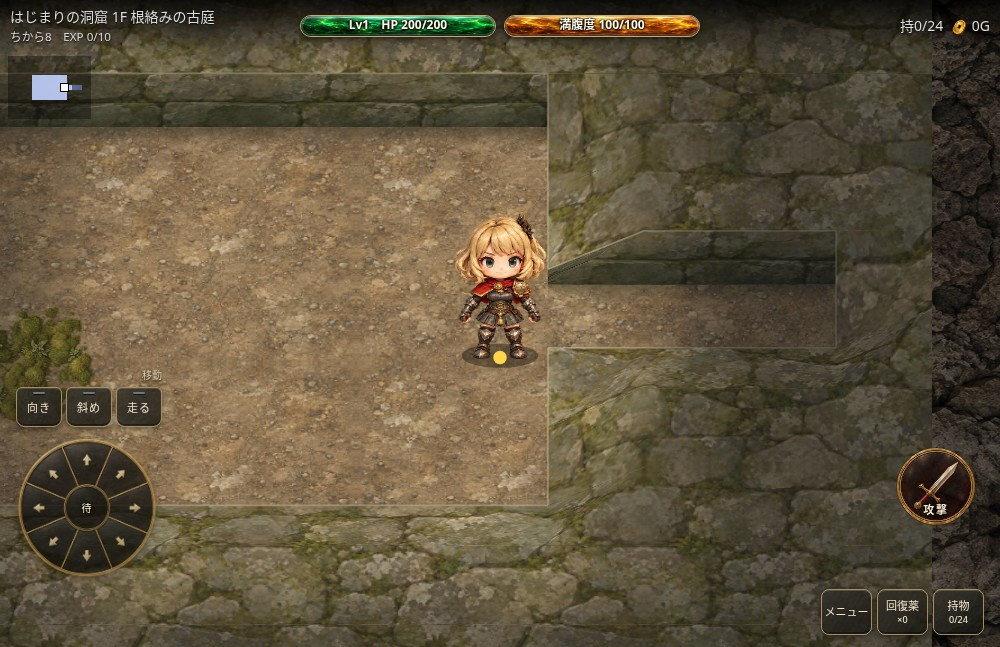
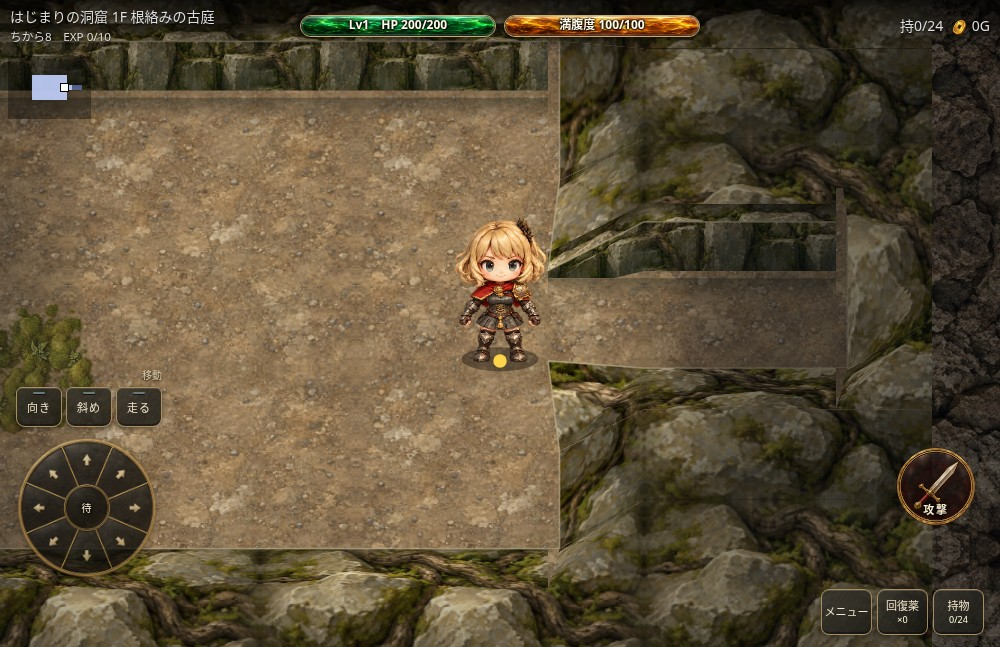
Prototype near-square ground and generated raised garden stonework

diff --git a/assets/overgrown-garden.js b/assets/overgrown-garden.js
@@ -4,10 +4,10 @@
  const theme=DungeonGenerator.themes.find(t=>t.id==='overgrown-garden');
  // Published view remains the default; study modes are selected in review only.
  const view={mode:'low',pitch:.82};
- const profiles={low:{back:.24,front:.24},tall:{back:.48,front:.48},cutaway:{back:.56,front:.16}};
+ const profiles={low:{back:.24,front:.24},tall:{back:.48,front:.48},cutaway:{back:.56,front:.16},ridge:{back:.86,front:.40}};
  function configureView(patch){
   if(patch.mode!==undefined){if(!profiles[patch.mode])throw Error('unknown wall view');view.mode=patch.mode;}
-  if(patch.pitch!==undefined){if(![.72,.82,.9].includes(patch.pitch))throw Error('unknown ground projection');view.pitch=patch.pitch;}
+  if(patch.pitch!==undefined){if(![.72,.82,.9,.94].includes(patch.pitch))throw Error('unknown ground projection');view.pitch=patch.pitch;}
  }
  function vertexHeight(map,x,y){
   const p=profiles[view.mode],floor=(xx,yy)=>map[yy]?.[xx]!==undefined&&map[yy][xx]!==0;
@@ -24,10 +24,18 @@
   }))).then(()=>{art.ready=true;}).catch(error=>{art.error=error.message;throw error;});
   return art.promise;
  }
+ function loadRidge(){
+  if(art.ridgePromise)return art.ridgePromise;
+  art.ridgePromise=new Promise((resolve,reject)=>{
+   const image=new Image();image.onload=()=>{art.images.ridge=image;resolve();};image.onerror=()=>reject(Error('古庭の石積み画像を取得できません'));
+   image.src='fushigi-overgrown-garden-v1/source-art/garden-ridge.png';
+  });
+  return art.ridgePromise;
+ }
  // Blend only opposing texture edges, retaining the generated painted interior.
  function texture(key){
   if(art.textures[key])return art.textures[key];
-  const tile={soil:[0,0],top:[1,0],face:[0,1],mossSoil:[1,1]}[key],image=art.images.materials,half=image.width/2;
+  const tile={soil:[0,0],top:[1,0],face:[0,1],mossSoil:[1,1],ridgeTop:[1,0],ridgeFace:[0,0],ridgeInterior:[0,1],ridgeCap:[1,1]}[key],image=key.startsWith('ridge')?art.images.ridge:art.images.materials,half=image.width/2;
   const c=document.createElement('canvas');c.width=c.height=256;const g=c.getContext('2d');
   g.drawImage(image,tile[0]*half,tile[1]*half,half,half,0,0,256,256);
   const src=g.getImageData(0,0,256,256),out=g.createImageData(256,256),data=src.data;
@@ -123,23 +131,46 @@
   g.restore();
  }
  function wall(g,px,py,size,h,{map,x,y}){
+  const ridge=view.mode==='ridge'&&art.images.ridge;
   const f=(xx,yy)=>map[yy]?.[xx]!==undefined&&map[yy][xx]!==0;
+  const groundCorner=(vx,vy)=>{
+   let ix=0,iy=0;
+   if(ridge){
+    // Narrow recesses belong to the wall cell. Shared corner positions keep
+    // their outlines joined; the front rim no longer sits under the hero's feet.
+    if(f(vx-1,vy-1)||f(vx,vy-1))iy+=.25;
+    if(f(vx-1,vy)||f(vx,vy))iy-=.08;
+    if(f(vx-1,vy-1)||f(vx-1,vy))ix+=.12;
+    if(f(vx,vy-1)||f(vx,vy))ix-=.12;
+   }
+   return [px+(vx-x+ix)*size,py+(vy-y+iy)*h];
+  };
+  const ground=[groundCorner(x,y),groundCorner(x+1,y),groundCorner(x+1,y+1),groundCorner(x,y+1)];
   const rises=[vertexHeight(map,x,y),vertexHeight(map,x+1,y),vertexHeight(map,x+1,y+1),vertexHeight(map,x,y+1)].map(v=>v*size*verticalProjection());
-  const top=[[px,py-rises[0]],[px+size,py-rises[1]],[px+size,py+h-rises[2]],[px,py+h-rises[3]]];
+  const top=ground.map(([xx,yy],i)=>[xx,yy-rises[i]]);
   g.save();
   g.imageSmoothingEnabled=true;
   // Fill the short vertical band under the cap too: it must stay opaque when
   // adjoining a room corner or a freshly blasted opening.
-  surface(g,'top',x,y,px,py,size,h,4);
+  const nearFloor=ridge&&[-1,0,1].some(dy=>[-1,0,1].some(dx=>f(x+dx,y+dy)));
+  surface(g,ridge?(nearFloor?'soil':'ridgeInterior'):'top',x,y,px,py,size,h,ridge&&nearFloor?3:4);
   if(f(x,y+1)){
-   const face=texture('face'),part=face.width/4;
-   const side=[top[3],top[2],[px+size,py+h],[px,py+h]];
-   quad(g,face,(x%4)*part,32,part,64,side);
+   const face=texture(ridge?'ridgeFace':'face'),span=ridge?2:4,part=face.width/span;
+   const side=[top[3],top[2],ground[2],ground[3]];
+   // Preserve material proportions instead of squeezing an entire tall block
+   // into a thin horizontal strip.
+   quad(g,face,(x%span)*part,ridge?64:32,part,64,side);
    const shade=g.createLinearGradient(0,py+h-Math.max(rises[2],rises[3]),0,py+h);shade.addColorStop(0,'#18221835');shade.addColorStop(1,'#10180e95');
    g.fillStyle=shade;g.beginPath();g.moveTo(...side[0]);for(const pt of side.slice(1))g.lineTo(...pt);g.closePath();g.fill();
   }
-  const tile=texture('top'),part=tile.width/4;
+  const tile=texture(ridge?'ridgeTop':'top'),part=tile.width/4;
   quad(g,tile,(x%4)*part,(y%4)*part,part,part,top);
+  if(ridge&&f(x,y+1)){
+   // A shallow crown distinguishes the standing edge from the wall's rocky
+   // interior. Adjacent cells share the same world-space band and vertices.
+   const cap=texture('ridgeCap'),depth=h*.2;
+   quad(g,cap,(x%2)*128,0,128,24,[[top[3][0],top[3][1]-depth],[top[2][0],top[2][1]-depth],top[2],top[3]]);
+  }
   // Restrict edge accents to actual exposed boundaries, never tile seams.
   g.lineWidth=Math.max(1,size*.018);g.strokeStyle='#c4b99890';g.beginPath();
   if(f(x,y-1)){g.moveTo(...top[0]);g.lineTo(...top[1]);}
@@ -154,6 +185,7 @@
   options={...options,x:options.x??0,y:options.y??0};
   if(!CaveTerrain.ready)return false;
   if(!art.ready){if(!art.promise)load().then(()=>root.render?.()).catch(()=>{});return false;}
+  if(view.mode==='ridge'&&!art.images.ridge&&!art.ridgePromise){loadRidge().then(()=>root.render?.()).catch(()=>{});}
   const h=size*view.pitch;
   if(key==='wallF'||key==='wallT')return wall(g,px,py,size,h,options);
   let ok=true;
@@ -170,5 +202,5 @@
  };
  // Both the normal floor rotation and review catalog include the garden.
  DungeonGenerator.locations=DungeonGenerator.themes;
- root.OvergrownGarden={theme,plan,cell,art,load,texture,view,profiles,configureView,vertexHeight};
+ root.OvergrownGarden={theme,plan,cell,art,load,loadRidge,texture,view,profiles,configureView,vertexHeight};
 })(typeof window==='undefined'?globalThis:window);

diff --git a/fushigi-overgrown-garden-v1/index.html b/fushigi-overgrown-garden-v1/index.html
@@ -3,7 +3,7 @@
 <style>
 body{margin:0;background:#141b18;color:#e5dfcd;font:14px system-ui,sans-serif;display:flex;flex-direction:column;height:100dvh}header{padding:10px;display:flex;gap:8px;align-items:center;flex-wrap:wrap;flex-shrink:0}h1{font-size:17px;margin:0 10px 0 0}button,select{font:inherit;color:inherit;background:#29382e;border:1px solid #6d7d65;border-radius:6px;padding:6px 10px}p{margin:0;padding:0 10px 8px;font-size:12px;color:#c0c8b6;flex-shrink:0}iframe{display:block;width:100%;flex:1;min-height:180px;border:0}#status{color:#e1cb91}button:disabled{opacity:.4}
 </style></head><body>
-<header><h1>根絡みの古庭</h1><select id="look" aria-label="景観"><option value="overgrown-garden">新しい古庭</option><option value="ruins">従来の遺跡と比較</option></select><select id="height" aria-label="壁の高さ"><option value="low">公開中の低い壁</option><option value="tall">全体を高くする</option><option value="cutaway">奥を高く・手前を低く</option></select><select id="angle" aria-label="見下ろし方"><option value="0.82">現在の見下ろし方</option><option value="0.72">少し横から見る</option><option value="0.9">少し真上から見る</option></select><button id="next" disabled>別の階</button><button id="room" disabled>別の部屋</button><button id="grid" disabled>マス境界</button></header>
+<header><h1>根絡みの古庭</h1><select id="look" aria-label="景観"><option value="overgrown-garden">新しい古庭</option><option value="ruins">従来の遺跡と比較</option></select><select id="height" aria-label="壁の高さ"><option value="low">公開中の低い壁</option><option value="tall">全体を高くする</option><option value="cutaway">奥を高く・手前を低く</option><option value="ridge" selected>新案：立ち上がる石積み</option></select><select id="angle" aria-label="見下ろし方"><option value="0.82">現在の見下ろし方</option><option value="0.72">少し横から見る</option><option value="0.9">少し真上から見る</option><option value="0.94" selected>新案：真上寄り</option></select><button id="next" disabled>別の階</button><button id="room" disabled>別の部屋</button><button id="grid" disabled>マス境界</button></header>
 <p>同じ地形・キャラ位置で壁の高さと見下ろし方を比較。奥と手前の高低差は角でもつながるよう調整しています。専用生成素材・本編と独立した保存を使用します。</p>
 <p id="status" role="status">読み込み中…</p><p>確認用の独立セーブ。本編の冒険・持ち物には影響しません。画面内でそのまま操作できます。</p>
 <iframe id="game" title="古庭のプレイ確認"></iframe>
@@ -17,11 +17,12 @@ frame.onload=async()=>{
  if(!frame.srcdoc)return;
  try{
   await frame.contentWindow.OvergrownGarden.load();
+  await frame.contentWindow.OvergrownGarden.loadRidge();
   const begin=Date.now();while(!run('CaveTerrain.ready && ApprovedHero.ready && DungeonExperience.ready')){if(Date.now()-begin>30000)throw Error('素材の読み込みが完了しません');await new Promise(r=>setTimeout(r,100));}
   run(`window.gardenSeed=${seed};window.gardenRoom=0;const gardenGenerate=DungeonGenerator.generate;DungeonGenerator.generate=function(w,h,s,d){const p=gardenGenerate(w,h,window.gardenSeed,d);p.theme=OvergrownGarden.theme;return p;};enterDungeon();player.hp=player.maxhp=200;`);
   // Draw grid after the game only on request; no gameplay/visibility changes.
   run(`window.gardenGrid=false;const gardenDraw=draw;draw=function(){gardenDraw();if(!window.gardenGrid||scene!=='dungeon')return;const cx=Math.round(innerWidth/2-(player.vx+.5)*TS),cy=Math.round(focusY()-(player.vy+.5)*tilePitchY());ctx.save();ctx.strokeStyle='#c3e9c84a';ctx.lineWidth=1;for(let y=0;y<MH;y++)for(let x=0;x<MW;x++)if(vis[y]?.[x])ctx.strokeRect(cx+x*TS,cy+y*tilePitchY(),TS,tilePitchY());ctx.restore();};`);
-  for(const id of ['next','room','grid'])$(id).disabled=false;apply();
+  for(const id of ['next','room','grid'])$(id).disabled=false;view();apply();
  }catch(e){$('status').textContent=e.message;}
 };
 $('look').onchange=apply;

diff --git a/index.html b/index.html
@@ -147,7 +147,7 @@ canvas{display:block;touch-action:none}
 <script src="assets/hero-actions.js?v=bread-art-v1"></script>
 <script src="assets/dungeon-generator.js?v=garden-release-v1"></script>
 <script src="assets/cave-terrain.js?v=wall-relief-v1"></script>
-<script src="assets/overgrown-garden.js?v=garden-release-v1"></script>
+<script src="assets/overgrown-garden.js?v=garden-ridge-study-v3"></script>
 <script src="fushigi-monsters-v1/monsters-renderer.js?v=motions-v1"></script>
 <link rel="stylesheet" href="assets/allies.css?v=dialog-v4">
 <link rel="stylesheet" href="assets/dungeon-shop.css?v=shops-v1">

diff --git a/fushigi-overgrown-garden-v1/check_height_study.py b/fushigi-overgrown-garden-v1/check_height_study.py
@@ -1,4 +1,4 @@
-"""Reproducible wall-height study. Official reference access is still pending."""
+"""Reproducible study informed by the user's five Shiren 6 screenshots."""
 import json
 from pathlib import Path
 from playwright.sync_api import sync_playwright
@@ -26,13 +26,13 @@ with sync_playwright() as p:
     before = frame.evaluate('JSON.stringify({map,rooms,roomGrid,player,enemies,floorItems,traps})')
     page.wait_for_timeout(1000)
     captures = []
-    for mode in ['low', 'tall', 'cutaway']:
+    for mode in ['low', 'tall', 'cutaway', 'ridge']:
         page.select_option('#height', mode)
-        page.select_option('#angle', '0.82')
+        page.select_option('#angle', '0.94' if mode == 'ridge' else '0.82')
         page.wait_for_timeout(100)
         frame.locator('body').screenshot(path=str(OUT / f'study-{mode}.jpg'), type='jpeg', quality=90)
-        captures.append({'mode': mode, 'pitch': .82, 'file': f'study-{mode}.jpg'})
-    for pitch in [.72, .82, .9]:
+        captures.append({'mode': mode, 'pitch': .94 if mode == 'ridge' else .82, 'file': f'study-{mode}.jpg'})
+    for pitch in [.72, .82, .9, .94]:
         page.select_option('#angle', str(pitch))
         page.wait_for_timeout(100)
         frame.locator('body').screenshot(path=str(OUT / f'study-angle-{round(pitch*100):03}.jpg'), type='jpeg', quality=90)
@@ -40,7 +40,7 @@ with sync_playwright() as p:
     frame.evaluate('''() => {
       const c=document.createElement('canvas');c.width=210;c.height=210;const g=c.getContext('2d');
       const offsets=[[-1,-1],[0,-1],[1,-1],[-1,0],[1,0],[-1,1],[0,1],[1,1]],size=32;
-      for(const mode of ['low','tall','cutaway'])for(const pitch of [.72,.82,.9]){
+      for(const mode of ['low','tall','cutaway','ridge'])for(const pitch of [.72,.82,.9,.94]){
         OvergrownGarden.configureView({mode,pitch});
         for(let mask=0;mask<256;mask++){
           const m=Array.from({length:5},()=>Array(5).fill(0));offsets.forEach(([x,y],i)=>m[2+y][2+x]=(mask>>i)&1);
@@ -52,27 +52,29 @@ with sync_playwright() as p:
       }
     }''')
     assert before == frame.evaluate('JSON.stringify({map,rooms,roomGrid,player,enemies,floorItems,traps})'), 'view changed gameplay'
-    page.select_option('#height', 'cutaway')
-    page.select_option('#angle', '0.82')
+    page.select_option('#height', 'ridge')
+    page.select_option('#angle', '0.94')
     for name, x, y in [('back', 7, 3), ('front', 7, 7), ('door', 10, 5)]:
         frame.evaluate(f'player.x=player.vx={x};player.y=player.vy={y};updateVis();render()')
         frame.locator('body').screenshot(path=str(OUT / f'study-near-{name}.jpg'), type='jpeg', quality=90)
     page.set_viewport_size({'width': 390, 'height': 844})
-    frame.locator('body').screenshot(path=str(OUT / 'study-cutaway-portrait.jpg'), type='jpeg', quality=90)
+    frame.locator('body').screenshot(path=str(OUT / 'study-ridge-portrait.jpg'), type='jpeg', quality=90)
     assert not errors, errors
     # A browser-rendered comparison sheet preserves the actual game captures.
     page.set_viewport_size({'width': 1500, 'height': 650})
     for name, files in [
         ('height-comparison', [('公開中の低い壁', 'study-low.jpg'), ('全体を高くする', 'study-tall.jpg'), ('奥を高く・手前を低く', 'study-cutaway.jpg')]),
         ('angle-comparison', [('少し横から', 'study-angle-072.jpg'), ('現在の見下ろし方', 'study-angle-082.jpg'), ('少し真上から', 'study-angle-090.jpg')]),
+        ('ridge-comparison', [('公開版の高さ・角度', 'study-low.jpg'), ('高さだけ変えた案', 'study-tall.jpg'), ('真上寄り＋立ち上がる石積み', 'study-ridge.jpg')]),
+        ('ridge-angle-comparison', [('従来の床の角度', 'study-angle-082.jpg'), ('少し真上寄り', 'study-angle-090.jpg'), ('新案の真上寄り', 'study-angle-094.jpg')]),
     ]:
         page.goto('http://127.0.0.1:8000/fushigi-overgrown-garden-v1/')
         page.set_content('<html lang="ja"><style>body{margin:0;background:#18201b;color:#eee;font:20px sans-serif}main{display:flex}figure{margin:10px;width:480px}img{width:480px;display:block}figcaption{padding:10px}</style><main>'+''.join(f'<figure><figcaption>{label}</figcaption><img src="http://127.0.0.1:8000/fushigi-overgrown-garden-v1/{file}"></figure>' for label,file in files)+'</main></html>')
         page.wait_for_function('Array.from(document.images).every(i=>i.complete&&i.naturalWidth>0)')
         page.locator('main').screenshot(path=str(OUT / f'{name}.jpg'), type='jpeg', quality=90)
-    result = {'status': 'passed', 'views': 9, 'topologiesPerView': 256, 'gapChecks': 2304,
+    result = {'status': 'passed', 'views': 16, 'topologiesPerView': 256, 'gapChecks': 4096,
               'gameplayUnchanged': True, 'nearWallAndDoor': True, 'portrait': True,
-              'officialReferenceReview': 'pending: outbound HTTP policy blocks official sources', 'captures': captures}
+              'referenceReview': 'five user-supplied Shiren 6 screenshots observed directly; exact camera angle and internal renderer are not established', 'captures': captures}
     (OUT / 'height-study-validation.json').write_text(json.dumps(result, ensure_ascii=False, indent=2)+'\n')
     print(json.dumps(result, ensure_ascii=False))
     browser.close()

diff --git a/fushigi-overgrown-garden-v1/check_browser.py b/fushigi-overgrown-garden-v1/check_browser.py
@@ -15,6 +15,8 @@ with sync_playwright() as p:
     saved = page.evaluate('Object.fromEntries(Object.entries(localStorage))')
     page.goto('http://127.0.0.1:8000/fushigi-overgrown-garden-v1/')
     page.wait_for_function("!document.getElementById('next').disabled", timeout=45000)
+    page.select_option('#height', 'low')
+    page.select_option('#angle', '0.82')
     game = page.frames[1]
     page.wait_for_timeout(1000)
     assert game.evaluate("floorPlan.theme.id==='overgrown-garden' && scene==='dungeon'")

diff --git a/fushigi-overgrown-garden-v1/WALL_HEIGHT_STUDY.md b/fushigi-overgrown-garden-v1/WALL_HEIGHT_STUDY.md
@@ -1,12 +1,22 @@
 # 壁の高さ・見下ろし方の比較（2026-10-23）
 
-ユーザーの「シレン6をしっかり参考に」に向けた比較準備。**公式画面の今回の直接確認は未完了**。下記2ページは、このクラウド環境のHTTPプロキシでCONNECT 403になった。過去の制作資料にある観察記録と、今回の直接観察は区別する。
+ユーザーがチャットへ添付したシレン6の5枚を直接観察し、床投影と壁造形をセットで比較する段階。
 
-- 任天堂の公式ゲーム紹介：https://www.nintendo.com/jp/topics/article/5ec539ee-1e2c-47cd-abd2-e8e6443d9f8f
-- スパイク・チュンソフト公式紹介：https://www.spike-chunsoft.co.jp/news/27997/
-- 関連する過去の記録：`fushigi-locations-v1/README.md`、`fushigi-wall-relief-v1/README.md`
+観察：1枚目のマス表示では床がかなり正方形に近く見える。洞窟画像では細長い岩・鍾乳石の起伏と陰影が高さの手掛かりになっており、幅広い平面と短い側面だけではない。花と水面の画像は低い縁、海中の画像は岩とサンゴで境界を作り、場所ごとに構造が異なる。手前にも高い岩が見える画像があり、「手前はすべて低い」とは断定できない。画像の縮小・拡縮があり得るので正確な角度や内部実装は測定したと扱わない。
 
-必要な接続先 `www.nintendo.com` / `topics-cdn.nintendo.co.jp` / `www.spike-chunsoft.co.jp` を環境設定ドラフトへ追加した。保存したドラフトだけでは実行中の接続制限は変わらない。適用後、記事内の実画面を取得して観察を追記する。今回の値をシレン6のカメラ角・壁高・内部描画方式から測定した値と扱わない。
+前段階の公式記事取得はプロキシ403だったが、今回の検討は添付された画面で進められる。次のURLは過去資料の出典として残す。
+
+- 任天堂：https://www.nintendo.com/jp/topics/article/5ec539ee-1e2c-47cd-abd2-e8e6443d9f8f
+- スパイク・チュンソフト：https://www.spike-chunsoft.co.jp/news/27997/
+- 過去の制作記録：`fushigi-locations-v1/README.md`、`fushigi-wall-relief-v1/README.md`
+
+## 新案：真上寄り＋立ち上がる石積み
+
+新しい生成原画 `source-art/garden-ridge.png` の立った石積み側面／起伏のある岩冠／岩と根の内部／浅い天端を使う。広い平らな台に見える材質を、凸面・稜線・隙間のある岩と根へ置き換える。正確なプロンプトと出自は `ridge-generation-record.json`。
+
+床の縦ピッチ0.94と石積みの高さをセットにした候補。マスは正方形に近づくが、1.0にはせず若干の奥行きを残す。新案はモード `ridge` で選択する。通常ゲームの既定値は公開版のまま。確認ページだけ新案を初期選択する。
+
+壁上面は共有頂点の形状で接続する。新案では床際を壁マスの内側へ少し寄せ、特に手前の縁が主人公の足元と重なって石の上に立って見える問題を軽減する。ここは描画上のくぼみであり、通行可能な追加マスではない。マス境界表示で論理的な壁との対応を確認できる。元の壁のマス・衝突・通路幅・視界は変更しない。
 
 ## 比較できるもの
 
@@ -17,12 +27,13 @@
 | 公開中の低い壁 | 0.24 | 0.24 | 現状との比較 |
 | 全体を高くする | 0.48 | 0.48 | 高さだけを変えた場合 |
 | 奥を高く・手前を低く | 0.56 | 0.16 | 囲まれ感と手前の読みやすさの比較 |
+| 立ち上がる石積み | 0.86 | 0.40 | 新しい立体的な材質と床ピッチ0.94を組み合わせる |
 
-値は基準ピッチ0.82での画面上の立ち上がり／タイル幅。床の縦ピッチは0.72／0.82／0.90。仮に直交投影と考えると `pitch = sin(俯角)`、高さ方向は `cos(俯角)` なので、角度の切替時は立ち上がりも同じモデルで補正し、物理的な壁高が変わって見える混同を避ける。これらの俯角は本家の測定値ではない。キャラ画像の縦横比は維持し、足元・床・道具・VFX・視界には同じピッチを渡す。
+値は基準ピッチ0.82での画面上の立ち上がり／タイル幅。床の縦ピッチは0.72／0.82／0.90／0.94。仮に直交投影と考えると `pitch = sin(俯角)`、高さ方向は `cos(俯角)` なので、角度の切替時は立ち上がりも同じモデルで補正し、物理的な壁高が変わって見える混同を避ける。これらの俯角は本家の測定値ではない。キャラ画像の縦横比は維持し、足元・床・道具・VFX・視界には同じピッチを渡す。
 
 壁の角はワールド座標の共有頂点で高さを決め、隣の壁と同じ辺を使う。床の北にある奥側は高く、床の南にある手前側は低くし、内側へ傾斜でつなぐ。上面と側面は生成材質を四角形へ写像する。マスごとに別の高さを切り替えて段差を作る方式は採らない。
 
-## 本家の画面で確認する点（未実施）
+## 今後も画面で確認する点
 
 - 床の横1マスと縦1マスの見かけの比。数種類の地形で同じか。
 - キャラの足元を基準にした壁の接地位置、上面の奥行き、見えている側面の高さ。
@@ -35,11 +46,14 @@
 
 HTTP配信したチェックアウトで `python3 fushigi-overgrown-garden-v1/check_height_study.py`。同じ7×5の部屋、キャラ、足元、アイテム・敵なしの条件で比較画像を生成する。
 
-- [高さ3案](height-comparison.jpg)
+- [公開版／高さだけ／新造形の比較](ridge-comparison.jpg)
+- [新造形で床投影を比較](ridge-angle-comparison.jpg)
+- [新案の全画面](study-ridge.jpg)
+- [以前の高さ3案](height-comparison.jpg)
 - [見下ろし方3案](angle-comparison.jpg)
 - [奥の壁に近づく](study-near-back.jpg)
 - [手前の壁に近づく](study-near-front.jpg)
 - [入口に近づく](study-near-door.jpg)
-- [縦画面](study-cutaway-portrait.jpg)
+- [新案・縦画面](study-ridge-portrait.jpg)
 
-9設定×256近傍地形＝2,304件で不透明な描画の連結を確認し、表示の切替でマップ・キャラ・内容物を変更しないことも確認する。`height-study-validation.json` はこの検証の結果。視覚的な適切さやシレン6との一致を、この自動チェックだけで保証するものではない。
+16設定×256近傍地形＝4,096件で不透明な描画の連結を確認し、表示の切替でマップ・キャラ・内容物を変更しないことも確認する。`height-study-validation.json` はこの検証の結果。視覚的な適切さやシレン6との一致を、この自動チェックだけで保証するものではない。

diff --git a/docs/HANDOVER.md b/docs/HANDOVER.md
@@ -4,7 +4,7 @@
 
 ## 1. 結論（いまの状態）
 
-- **古庭の壁高・見下ろし比較（2026-10-23、作業ブランチ）**：ユーザーの「壁が低い」「シレン6をしっかり参考に」に対応し、同じ部屋・足元で壁高3案と床投影3案を比較する準備。共有頂点の高さで角の段差を防ぎ、手前を低くする案も追加。通常起動の既定は公開済み0.24マス高・ピッチ0.82。比較は保存せず、他ロケーションも維持。9設定×256近傍地形とゲーム状態不変・縦横・壁際を検証。**公式記事の今回の直接確認は未完了**：任天堂／スパイク公式への取得がプロキシ403。必要ドメインの環境設定ドラフトは保存済みで、適用後に公式画面の観察を続ける。本家を測定した数値とは扱わない。詳細と比較画像は `fushigi-overgrown-garden-v1/WALL_HEIGHT_STUDY.md`。この比較作業のmain反映・公開は未実施。
+- **古庭の床投影・立ち上がる石積み比較（2026-10-23、作業ブランチ）**：ユーザー添付のシレン6画面5枚を直接観察。正方形に近い床・岩の起伏・場所ごとの境界の違いを参考に、床ピッチ0.94と専用の起伏ある石積み生成原画を組み合わせた `ridge` 案を追加。壁の形状を共有頂点で接続し、床際のくぼみで主人公の足元が手前の壁に重なって見える問題を軽減。既存の移動判定・通路幅は維持。壁造形4案×床投影4案＝16設定・4,096接続を検証。通常ゲームの既定は公開済み0.24マス高・ピッチ0.82のまま、確認ページだけ新案を初期選択。数値は本家の測定値ではない。詳細・生成原画・比較画像は `fushigi-overgrown-garden-v1/WALL_HEIGHT_STUDY.md`。この比較作業のmain反映・公開は未実施。
 
 - **追加ロケーション「根絡みの古庭」（2026-10-23、反映・公開許可済み）**：ユーザーの「ロケーション追加で試す」「手描きコードの部分は生成」「壁のガタつきを直す」に対応。`assets/overgrown-garden.js` に分離。専用生成原画2枚（床・壁上面・側面の材質シート、根2種・苔・崩れ石の透過シート）を使用し、手描きコードによる根・苔・石の仮絵を廃止。部屋ごとの主題と寄せる壁、中央・入口・階段・店舗を空ける配置は維持。壁は全体0.24マス高で接続し、内部境界には側面・縁を描かない。生成材質を使い、旧画像の欠け・段差を除去。階段と画面外の天井は既存遺跡素材を再利用。`fushigi-overgrown-garden-v1/` に独立セーブ比較画面・原画・プロンプト・ハッシュ・確認画像。壁256接続／材質端・部屋配置100シード・実ブラウザ3主題／縦横／保存／壁破壊を確認。ユーザーの「反映と公開」により、本編の6番目のロケーションとして通常巡回に追加（6階・12階…）。通常6階での自動出現と再読込による途中復帰も確認。最新mainの描画順・移動補間・キー長押し修正を取り込み済み。公開処理の結果はGitHub Actionsのpages build and deploymentで確認する。
 
@@ -104,7 +104,7 @@ node tests/harness.js index.html tests/test_mvp.js      # ALL OK が出れば成
 
 ## 5. 次にやること（提案＝仮説。優先順）
 
-- 壁高の比較：クラウド環境の接続許可が適用されたら任天堂・スパイク公式画面で足元・壁上面・側面・手前遮蔽を観察し、`WALL_HEIGHT_STUDY.md` へ根拠を追記してから採用案を決める。ほかのロケーションへの展開はその後。
+- 壁高の比較：添付されたシレン6の5画面を参考に作った新造形＋真上寄り案を、同じ地形・キャラ位置で確認して採用案を決める。ほかのロケーションへの展開はその後。
 
 - 追加ロケーションのデザイン確認：`fushigi-overgrown-garden-v1/index.html` で根・苔・崩れ石の偏り、中央／入口の空き、壁の高さ・縁を縦横で比較する。配置ロジック100シード、実ブラウザ3主題・保存復元・本編セーブ分離・壁破壊後の描画を検証。専用生成原画と壁接続の修正版を見て、密度調整を判断する。通常巡回への追加はユーザー承認済み。
 

diff --git a/fushigi-overgrown-garden-v1/README.md b/fushigi-overgrown-garden-v1/README.md
@@ -1,6 +1,6 @@
 # 根絡みの古庭：追加ロケーションの試作
 
-壁高・見下ろし方の比較は [WALL_HEIGHT_STUDY.md](WALL_HEIGHT_STUDY.md)。公式画面の今回の直接確認は接続制限で未完了。比較用の数値はFushigiの候補値で、通常起動時の既定は公開版と同じ低い壁。
+壁高・見下ろし方の比較は [WALL_HEIGHT_STUDY.md](WALL_HEIGHT_STUDY.md)。ユーザー添付のシレン6画面5枚を参考に、真上寄りの床と専用生成画像による立ち上がる石積みを追加比較。数値はFushigiの候補値で、通常起動時の既定は公開版と同じ低い壁。確認ページは新案を初期表示する。
 
 `index.html` が確認画面。リポジトリを HTTP 配信してこのフォルダを開く。
 本編と同じ地形・操作・キャラを使い、同じ階で「新しい古庭」と「従来の遺跡」を切り替えられる。「別の部屋」「別の階」「マス境界」で配置と判定を確認する。
